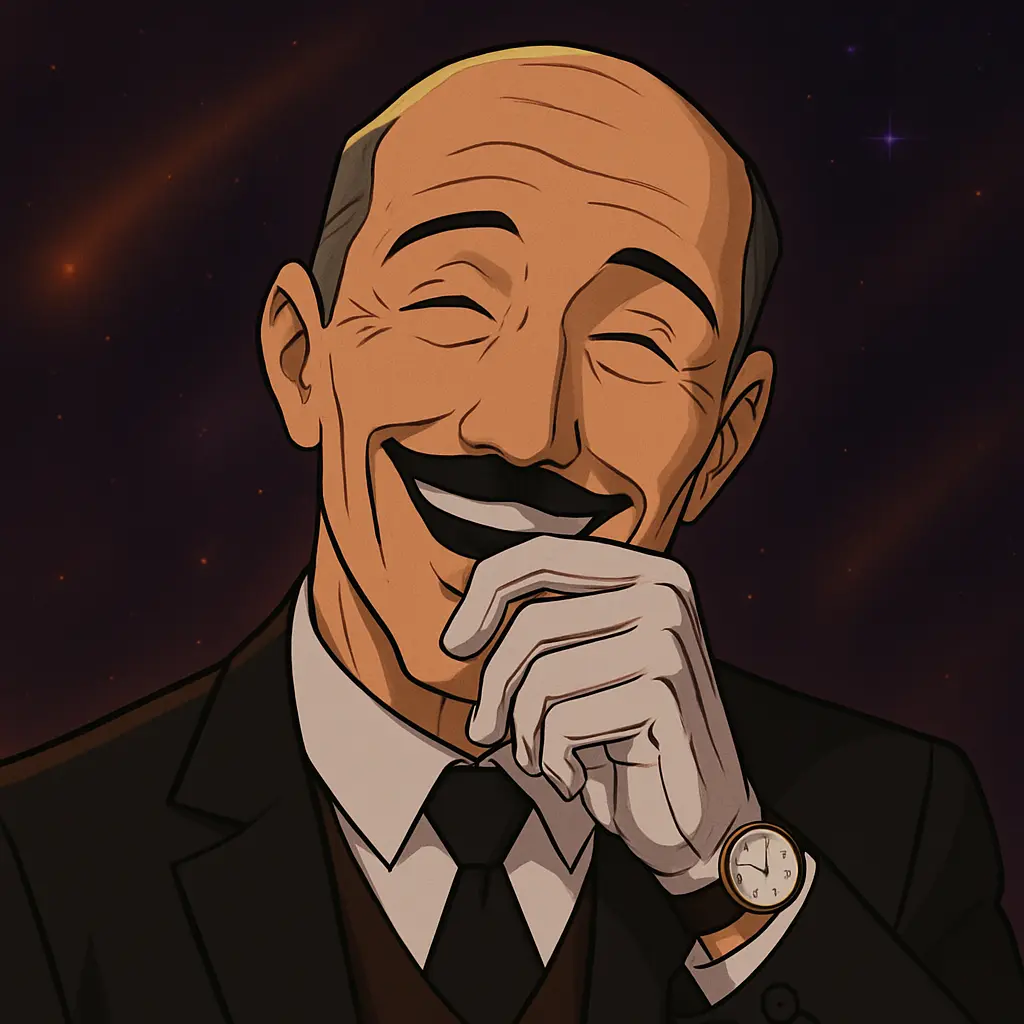
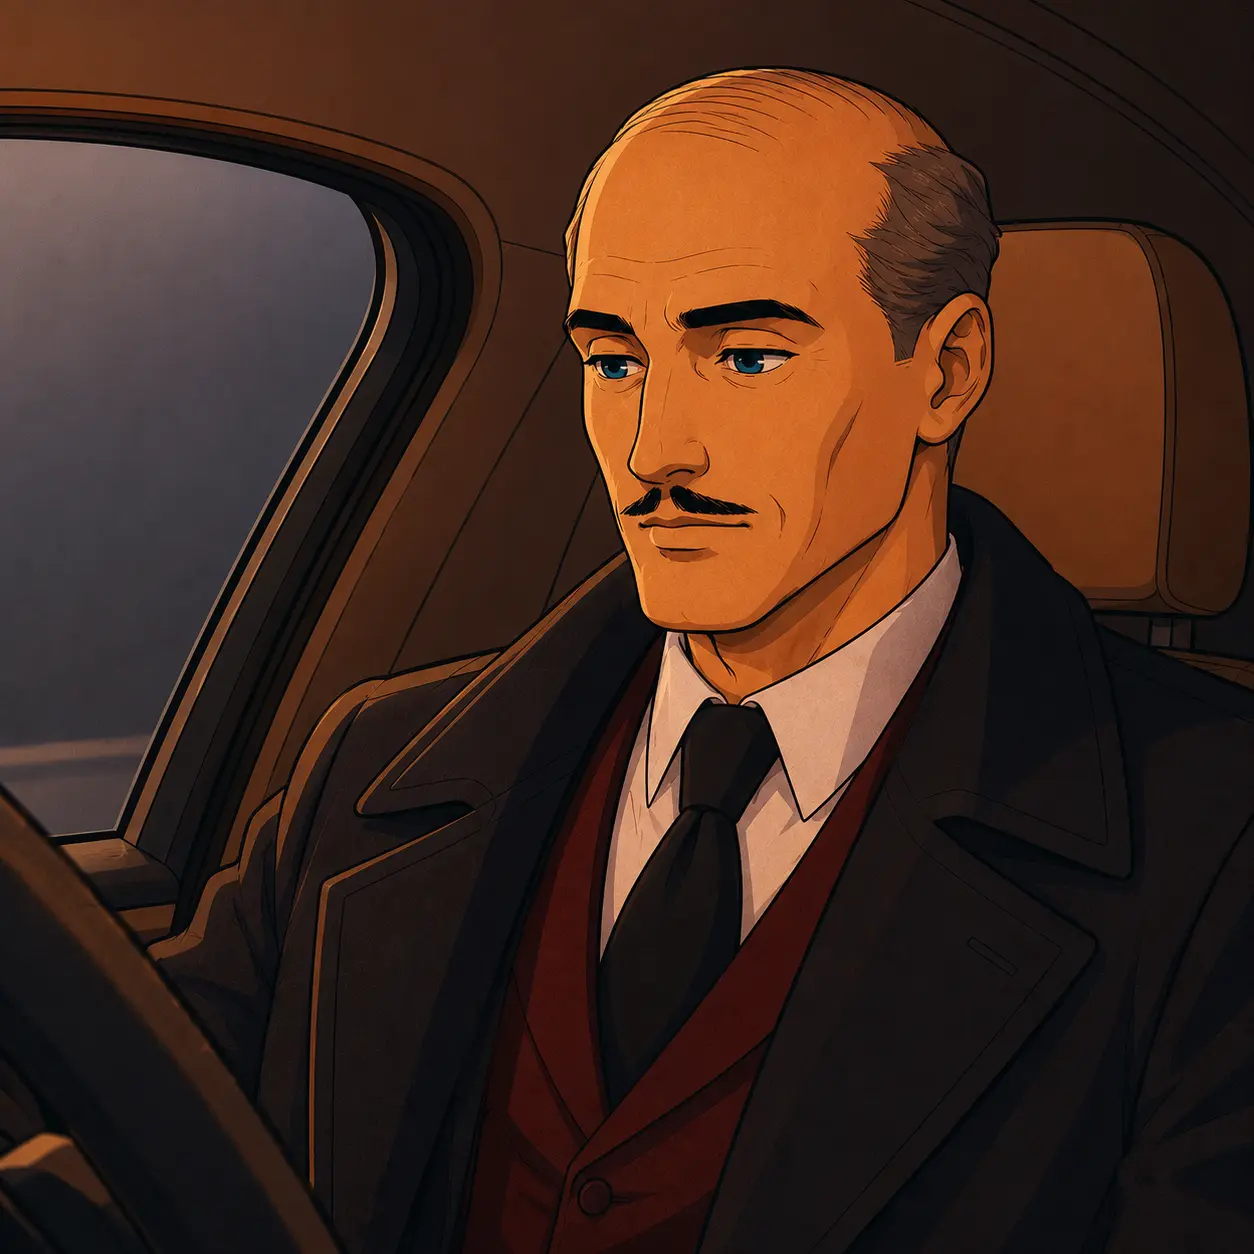
Use WEBP instead of PNG for faster loading

diff --git a/index.html b/index.html
@@ -31,7 +31,7 @@
     <nav>
         <div class="nav-container">
             <a href="index.html" class="logo home-logo" aria-label="AlfredHelps home">
-                <img src="./images/Alfred.png" alt="">
+                <img src="./images/Alfred.webp" alt="">
                 <span>AlfredHelps</span>
             </a>
             <button class="hamburger" aria-label="Menu">
@@ -79,7 +79,7 @@
                 <h2>More than 1.8K servers use Alfred to make chat less chaotic.</h2>
             </div>
             <div class="server-stack" aria-hidden="true">
-                <span class="server-token token-purple"><img src="./images/Alfred.png" alt=""></span>
+                <span class="server-token token-purple"><img src="./images/Alfred.webp" alt=""></span>
                 <span class="server-token token-gold">AI</span>
                 <span class="server-token token-green">GG</span>
                 <span class="server-token token-cyan">DEV</span>

diff --git a/404.html b/404.html
@@ -29,7 +29,7 @@
     <nav>
         <div class="nav-container">
             <a href="index.html" class="logo home-logo" aria-label="AlfredHelps home">
-                <img src="./images/Alfred.png" alt="">
+                <img src="./images/Alfred.webp" alt="">
                 <span>AlfredHelps</span>
             </a>
             <button class="hamburger" aria-label="Menu">

diff --git a/documentation.html b/documentation.html
@@ -30,7 +30,7 @@
     <nav>
         <div class="nav-container">
             <a href="index.html" class="logo home-logo" aria-label="AlfredHelps home">
-                <img src="./images/Alfred.png" alt="">
+                <img src="./images/Alfred.webp" alt="">
                 <span>AlfredHelps</span>
             </a>
             <button class="hamburger" aria-label="Menu">

diff --git a/privacy.html b/privacy.html
@@ -30,7 +30,7 @@
     <nav>
         <div class="nav-container">
             <a href="index.html" class="logo home-logo" aria-label="AlfredHelps home">
-                <img src="./images/Alfred.png" alt="">
+                <img src="./images/Alfred.webp" alt="">
                 <span>AlfredHelps</span>
             </a>
             <button class="hamburger" aria-label="Menu">

diff --git a/tos.html b/tos.html
@@ -31,7 +31,7 @@
     <nav>
         <div class="nav-container">
             <a href="index.html" class="logo home-logo" aria-label="AlfredHelps home">
-                <img src="./images/Alfred.png" alt="">
+                <img src="./images/Alfred.webp" alt="">
                 <span>AlfredHelps</span>
             </a>
             <button class="hamburger" aria-label="Menu">
